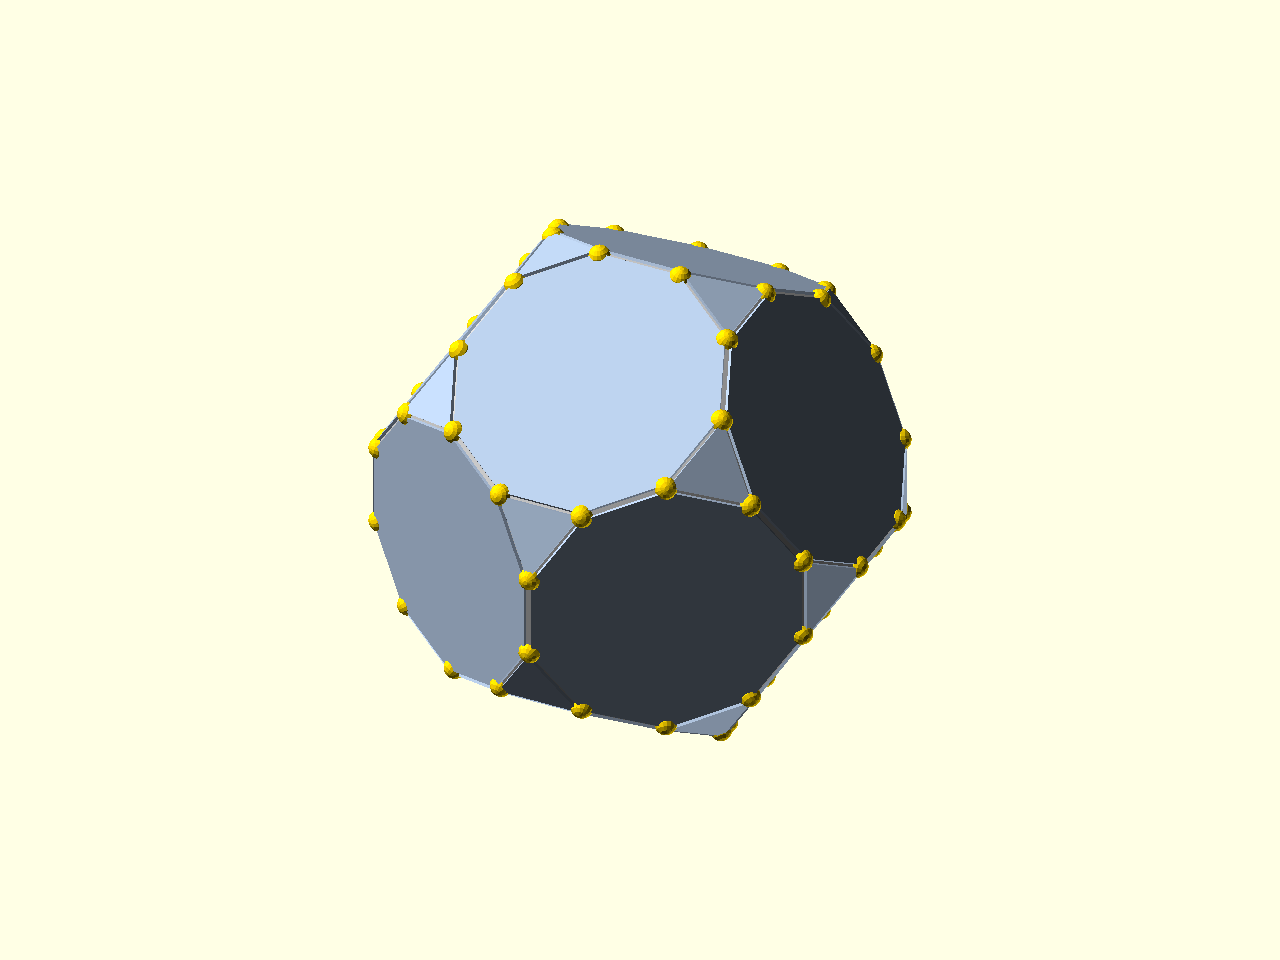
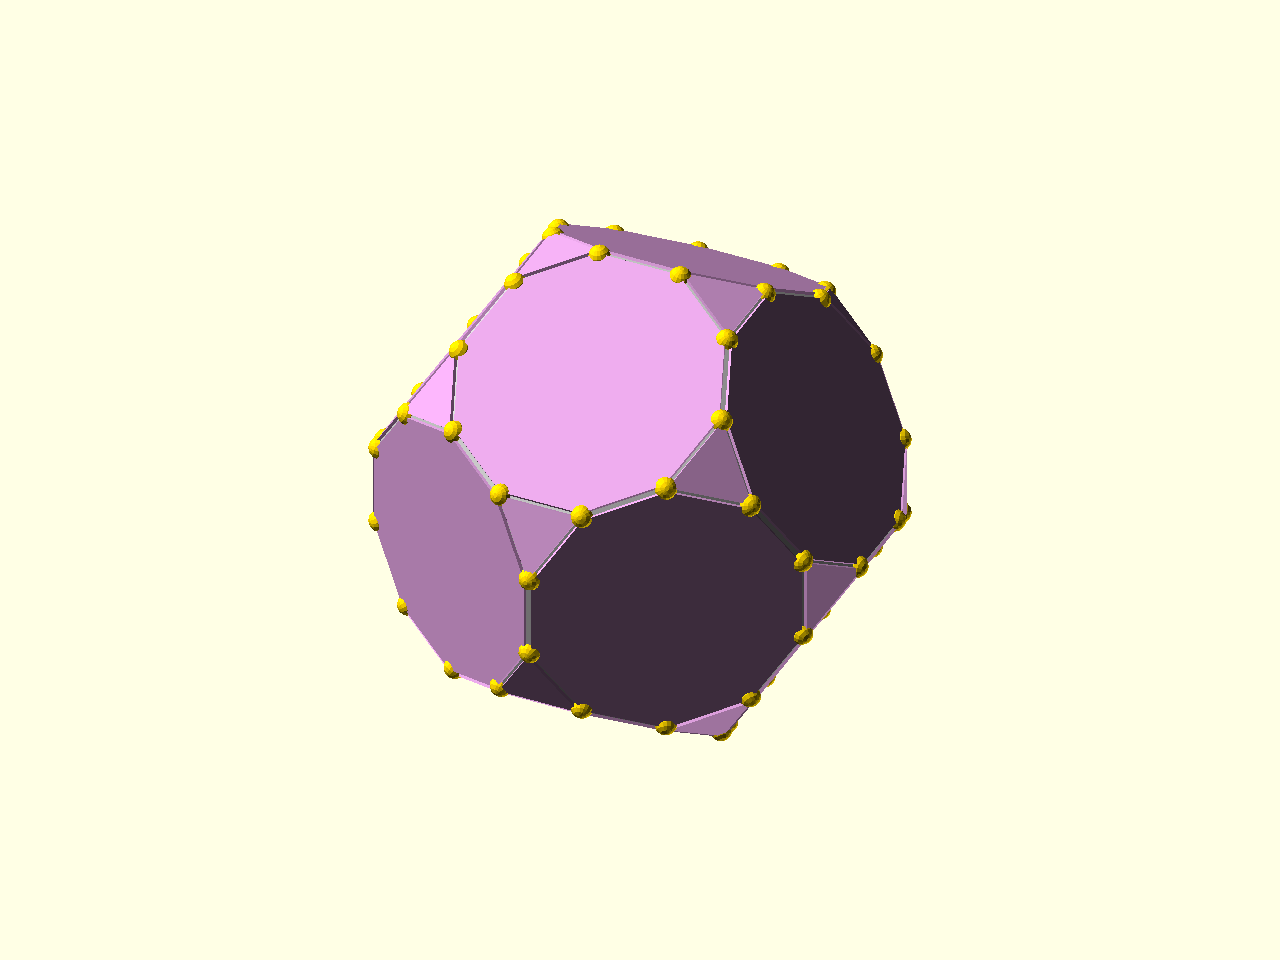
[#188] Build tutorial skeleton and first lessons (#202)
* [#188] Tutorial parts 1,2
* [#188] Fixed colours and sizes
* [#188] Added comment about scaling the sizes

diff --git a/docs/tutorials/02_placement.md b/docs/tutorials/02_placement.md
@@ -1,0 +1,54 @@
+# Placement
+
+Placement modules replay child geometry at every face, edge, or vertex of a
+polyhedron. Inside the child module, `$ps_*` values describe the current site.
+
+![A truncated cube with face panels, edge bars, and vertex markers](../images/generated/tutorial_02_placement.png)
+
+Source: [`docs/examples/tutorial_02_placement.scad`](../examples/tutorial_02_placement.scad)
+
+The example starts with a transformed model:
+
+```scad
+p = poly_truncate(hexahedron());
+ir = 32;
+```
+
+Then each placement module supplies the local frame and metadata needed by its
+child:
+
+```scad
+place_on_faces(p, inter_radius = ir)
+    inset_face_panel();
+
+place_on_edges(p, inter_radius = ir)
+    edge_bar();
+
+place_on_vertices(p, inter_radius = ir)
+    vertex_marker();
+```
+
+The face child uses `$ps_face_pts2d`, which is the current face in face-local 2D
+coordinates:
+
+```scad
+module inset_face_panel() {
+    color("plum")
+        linear_extrude(height = 1.2)
+            polygon(points = $ps_face_pts2d * 0.75);
+}
+```
+Normally, the list of points in `$ps_face_pts2d` would exactly fit the face location, but multiplying it by 0.75 shrinks it,
+as shown.
+
+The edge child uses `$ps_edge_len` so every bar fits its current edge:
+
+```scad
+module edge_bar() {
+    color("silver")
+        cube([$ps_edge_len * 0.76, 1.5, 1.2], center = true);
+}
+```
+
+That is the central PolySymmetrica workflow: choose a descriptor, then write
+small local child modules that respond to the current placement context.

diff --git a/docs/tutorials/01_models.md b/docs/tutorials/01_models.md
@@ -1,0 +1,30 @@
+# Models
+
+PolySymmetrica starts with a polyhedron descriptor. Most examples get one from a
+model constructor such as `tetrahedron()`, `octahedron()`, or `dodecahedron()`.
+
+![Tetrahedron, octahedron, and dodecahedron rendered from model descriptors](../images/generated/tutorial_01_models.png)
+
+Source: [`docs/examples/tutorial_01_models.scad`](../examples/tutorial_01_models.scad)
+
+The example creates three descriptors and passes each one to the same preview
+module:
+
+```scad
+translate([-72, 0, 0])
+    preview_poly(tetrahedron(), 24, "plum");
+
+preview_poly(octahedron(), 24, "orange");
+
+translate([72, 0, 0])
+    preview_poly(dodecahedron(), 24, "palegreen");
+```
+
+The preview module uses placement rather than hard-coded rotations. It fills
+each face, draws each edge, and marks each vertex from the same descriptor.
+
+The important habit is to keep the descriptor separate from the geometry you
+place on it. Once the descriptor changes, the same child modules can be replayed
+on a different solid.
+
+Next: [Placement](02_placement.md).

diff --git a/README.md b/README.md
@@ -48,17 +48,17 @@ use <polysymmetrica/models/platonics_all.scad>
 
 p = poly_truncate(dodecahedron());
 
-color("lightsteelblue")
+color("plum")
     place_on_faces(p, inter_radius = 35)
         linear_extrude(1) polygon($ps_face_pts2d);
 
 color("gold")
     place_on_vertices(p, inter_radius = 35)
-        sphere(1.6, $fn = 16);
+        sphere(r = 1.6, $fn = 16);
 
 color("silver")
     place_on_edges(p, inter_radius = 35)
-        cube([$ps_edge_len, 1, 1], center = true);
+        cube([$ps_edge_len, 1.5, 1], center = true);
 ```
 
 This builds a truncated dodecahedron: it renders a polygon on each face, places a small
@@ -118,6 +118,7 @@ More advanced demos live under:
 Current guides and notes:
 
 - [Getting started](docs/getting_started.md)
+- [Tutorials](docs/tutorials/index.md)
 - [Documentation images](docs/images.md)
 - [Developer guide](docs/developer_guide.md)
 - [Construction helpers](docs/construction.md)

diff --git a/docs/getting_started.md b/docs/getting_started.md
@@ -91,18 +91,18 @@ use <polysymmetrica/models/platonics_all.scad>
 p = poly_truncate(dodecahedron());
 ir = 35;
 
-color("lightsteelblue")
+color("plum")
     place_on_faces(p, inter_radius = ir)
         linear_extrude(height = 1)
             polygon(points = $ps_face_pts2d);
 
 color("silver")
     place_on_edges(p, inter_radius = ir)
-        cube([$ps_edge_len, 1, 1], center = true);
+        cube([$ps_edge_len, 1.5, 1], center = true);
 
 color("gold")
     place_on_vertices(p, inter_radius = ir)
-        sphere(1.6, $fn = 16);
+        sphere(r = 1.6, $fn = 16);
 ```
 
 Render it:
@@ -151,6 +151,7 @@ Common examples:
 
 ## Where To Go Next
 
+- Work through the [tutorials](tutorials/index.md) for small runnable lessons.
 - Open `src/polysymmetrica/examples/basics/main_basics.scad` for the broadest
   first demo.
 - Read [prisms and antiprisms](prisms.md) for prism/polygram constructors.

diff --git a/docs/tutorials/index.md b/docs/tutorials/index.md
@@ -1,0 +1,12 @@
+# Tutorials
+
+These tutorials build up PolySymmetrica from small runnable OpenSCAD examples.
+Each lesson links to the `.scad` source used to generate its image.
+
+Start with:
+
+1. [Models](01_models.md)
+2. [Placement](02_placement.md)
+
+Later lessons will cover classification, transforms, prisms and antiprisms,
+construction helpers, and printable frame/face workflows.

diff --git a/docs/images.md b/docs/images.md
@@ -28,6 +28,8 @@ Render one target with:
 scripts/render_docs_images.sh first_taste
 ```
 
+Available targets are listed by `scripts/render_docs_images.sh --help`.
+
 On a headless machine, wrap the command with `xvfb-run`:
 
 ```bash
